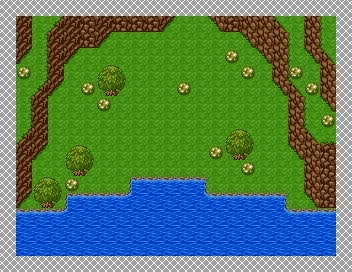
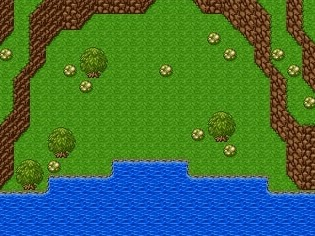
redimension de la map t du perso avec recalibrage auto

diff --git a/css/style.css b/css/style.css
@@ -5,22 +5,26 @@ body {
 }
 
 #game-container {
-    position: relative; 
+    position: relative;
     width: 100vw;
-    height: 100vh;
+    height: 100vh; 
     background-image: url('../assets/map1.jpg');
-    background-size: cover;
+    background-size: contain; 
+    background-position: center; 
 }
+
 
 #character {
     position: absolute;
-    width: 50px;
-    height: 50px;
+    width: 45px;
+    height: 45px;
     background-image: url('../assets/perso.jpg');
     background-size: cover;
     top: 50%;
     left: 50%;
     transform: translate(-50%, -50%);
+    background-size: contain; 
+    background-position: center; 
 }
 
 
